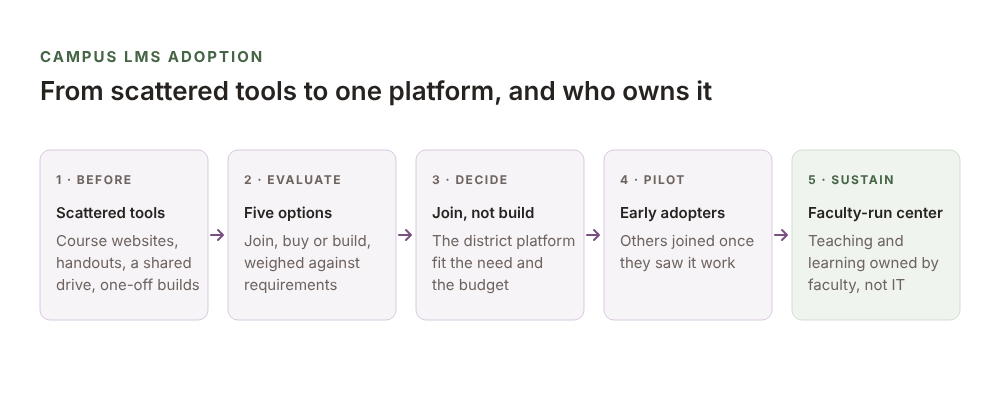
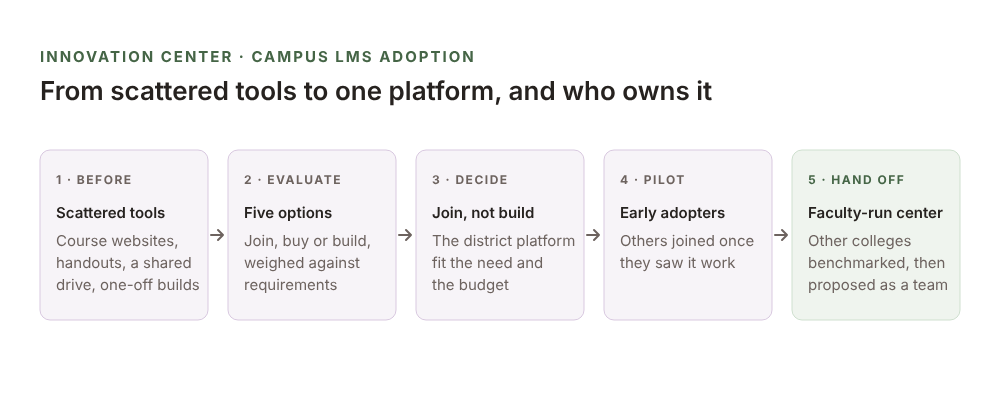
updating v3

diff --git a/v3/index.html b/v3/index.html
@@ -25,7 +25,7 @@
 </header>
 
 <main id="main">
-  <h1 class="lead-intro">I help colleges decide which AI ideas are worth doing, then get people using the ones that are.</h1>
+  <h1 class="lead-intro">I design learning experiences and AI strategy for the future of higher education.</h1>
   <p class="lead-sub">My work sits at the intersection of emerging technology, human-centered design, and helping organizations put new tools to real, practical use. I start with the people and the problem, never the technology: prototype, put it in front of real users, and don&rsquo;t scale until the evidence says it works.</p>
 
   <div class="askbar">
@@ -41,12 +41,12 @@
   </div>
 
   <h2 class="work-head" id="work">Work</h2>
-  <nav class="tabs" id="worktabs" aria-label="Filter work by section"><button type="button" class="tab" data-cat="all" aria-selected="true">All</button><button type="button" class="tab" data-cat="adopt" aria-selected="false">AI Adoption</button><button type="button" class="tab" data-cat="studies" aria-selected="false">Usability Studies</button><button type="button" class="tab" data-cat="student" aria-selected="false">Student Success Tools</button><button type="button" class="tab" data-cat="course" aria-selected="false">Course Design Tools</button><button type="button" class="tab" data-cat="teach" aria-selected="false">Teaching</button><button type="button" class="tab" data-cat="personal" aria-selected="false">Personal</button></nav>
+  <nav class="tabs" id="worktabs" aria-label="Filter work by section"><button type="button" class="tab" data-cat="studies" aria-selected="true">Usability Studies</button><button type="button" class="tab" data-cat="adopt" aria-selected="false">AI Adoption</button><button type="button" class="tab" data-cat="student" aria-selected="false">Student Success Tools</button><button type="button" class="tab" data-cat="course" aria-selected="false">Course Design Tools</button><button type="button" class="tab" data-cat="teach" aria-selected="false">Teaching</button><button type="button" class="tab" data-cat="personal" aria-selected="false">Personal</button></nav>
   <div class="feat" id="workgrid">
-    <a href="/pipeline/overview.html" data-cat="adopt"><span class="feat-thumb"><img src="/pipeline/pipeline_cover.jpg" alt=""></span><span class="feat-body"><span class="feat-t">AI Request Intake</span><span class="feat-s">AI Opportunity Pipeline</span><span class="feat-d">Early-stage prototype, in review and revision with the domain. An inventory of the AI tools ten colleges already have, with written requirements for the front door that comes next.</span></span></a>
-    <a href="/v3/adoption/" data-cat="adopt"><span class="feat-thumb"><img src="/v3/assets/adoption-path.svg" alt=""></span><span class="feat-body"><span class="feat-t">Campus Technology Adoption</span><span class="feat-s">Adoption and Enablement</span><span class="feat-d">Moving a campus from scattered tools onto one learning management system, and the faculty-run model that made adoption stick.</span></span></a>
     <a href="/v3/studies/journey/" data-cat="studies"><span class="feat-thumb"><img src="/airc-sss/cover.svg" alt=""></span><span class="feat-body"><span class="feat-t">Student Journey Barriers Study</span><span class="feat-s">Ten-college usability study</span><span class="feat-d">Synthetic-student agents walk the real student journey across ten Maricopa colleges to find where students hit barriers, ranked into prioritized AI pilots.</span></span></a>
     <a href="/v3/studies/gemini/" data-cat="studies"><span class="feat-thumb"><img src="/gemini-study/gemini-cover.png" alt=""></span><span class="feat-body"><span class="feat-t">Gemini Access Study</span><span class="feat-s">Examples of what Gemini blocks for students under 18</span><span class="feat-d">Twenty-seven course assignments run in an under-18 account and an 18-and-older account, to show a district exactly what younger students cannot do.</span></span></a>
+    <a href="/v3/adoption/" data-cat="adopt"><span class="feat-thumb fit"><img src="/v3/assets/adoption-path.svg" alt=""></span><span class="feat-body"><span class="feat-t">Campus Technology Adoption</span><span class="feat-s">Adoption and Enablement</span><span class="feat-d">How a campus Innovation Center moved faculty from scattered tools onto one learning management system, then co-wrote the approved proposal for the faculty-run center that made adoption stick.</span></span></a>
+    <a href="/pipeline/overview.html" data-cat="adopt"><span class="feat-thumb"><img src="/pipeline/pipeline_cover.jpg" alt=""></span><span class="feat-body"><span class="feat-t">AI Request Intake</span><span class="feat-s">AI Opportunity Pipeline</span><span class="feat-d">Early-stage prototype, in review and revision with the domain. An inventory of the AI tools ten colleges already have, with written requirements for the front door that comes next.</span></span></a>
     <a href="/v3/render/" data-cat="student"><span class="feat-thumb"><img src="/render/render_cover.jpg" alt=""></span><span class="feat-body"><span class="feat-t">Career Launch Tool</span><span class="feat-s">Render</span><span class="feat-d">Training wheels for building agents: students build a career-launch environment by hand and graduate owning the agents. Includes the scheduled agents built on the same pattern.</span></span></a>
     <a href="/copamigo/overview.html" data-cat="student"><span class="feat-thumb"><img src="/copamigo/copamigo_cover.jpg?v=2" alt=""></span><span class="feat-body"><span class="feat-t">Student Support Routing</span><span class="feat-s">CopaMigo</span><span class="feat-d">A multilingual AI triage tool that answers in the student&rsquo;s own language and routes their problem to the right human service with a warm handoff.</span></span></a>
     <a href="/course-dialer/overview.html" data-cat="course"><span class="feat-thumb"><img src="/course-dialer/cover.jpg" alt=""></span><span class="feat-body"><span class="feat-t">Course Review Tool</span><span class="feat-s">Dial Your Course</span><span class="feat-d">Drop in a Canvas course and nineteen checks run against it, from seat hours to accessibility to AI resistance, then the fixes come back.</span></span></a>

diff --git a/v3/assets/askbar.js b/v3/assets/askbar.js
@@ -64,7 +64,7 @@
       alignment: "Constructive alignment, from Biggs, means the outcomes, the assessments, and the learning activities all point at the same target. Nothing gets assessed that was not taught, and nothing gets taught that is not assessed. It is exactly what my Dial Your Course tool checks, whether every outcome is actually evidenced by something graded. <a href='/course-dialer/overview.html'>See it &rarr;</a>",
       strengths: "What sets my work apart is the combination the best online learning experience design takes. I am trained in both design and the science of how people learn, so I design from measurable outcomes backward and align every assessment to them rather than starting from a template. I build courses end to end to a formal quality standard, Quality Matters and OSCQR, and I have done it for working adults in higher education for more than 20 years, including alongside faculty subject-matter experts in fields outside my own. I bring a designer&rsquo;s eye and Adobe fluency, real AI-assisted course building, and an assessment habit: I close the loop with data instead of stopping at the design. And I keep the human at the center of all of it.",
       programreview: "As Program Director I owned our program review, the formal every-three-years assessment of the whole program: enrollment, student outcomes, and how our courses performed against their objectives, written up as the case for budget, faculty lines, and resources. That is assessment at the program level, not just the course level, and it is where I learned to treat a program&rsquo;s health as an enrollment and equity question, not only a content one. Decide from evidence and justify the spend with it, that habit carries into all my program work.",
-      adkar: "Change management decides whether anything gets used. As Director of Instructional Technology I moved a campus from scattered course websites, handouts and one-off tools onto its first campus-wide learning management system: an evaluation of five options, a pilot with early adopters, and support that let the rest follow once they saw it work. The lesson I took from it is that IT cannot drive teaching adoption alone, so I co-authored the proposal for a faculty-run center for teaching and learning. I have not run a formal ADKAR program yet, and Prosci training is next. <a href='/v3/adoption/'>Adoption and enablement &rarr;</a>",
+      adkar: "Change management decides whether anything gets used. As Director of Instructional Technology in the campus Innovation Center, my team moved a campus from scattered course websites, handouts and one-off tools onto its first campus-wide learning management system: an evaluation of five options that I ran with the Director of Training, a pilot with early adopters, and support that let the rest follow once they saw it work. The lesson I took from it is that IT cannot drive teaching adoption alone, so the Director of Training and I visited every other center for teaching and learning in the district and wrote the proposal for a faculty-run one on our campus, which two vice presidents approved. I have not run a formal ADKAR program yet, and Prosci training is next. <a href='/v3/adoption/'>Adoption and enablement &rarr;</a>",
       scrum: "I am completing the Professional Scrum Product Owner I course through Scrum.org. The product owner role is familiar ground: as a product manager at an EdTech startup I owned the roadmap, wrote requirements engineers could build from, and set priorities with engineering, sales and marketing.",
       usability: "Usability research runs through my whole career, with and without AI. As a product manager at an EdTech startup (ProQuest, XanEdu division) I ran usability studies and turned user research into product roadmaps, and I teach UX design. Most recently I designed two district studies: one sends synthetic-student agents down the real student journey across ten colleges, and one tests side by side what Gemini blocks for students under 18. <a href='/v3/studies/journey/'>Student journey study &rarr;</a> <a href='/v3/studies/gemini/'>Gemini study &rarr;</a>",
       stem: "Yes. At the University of Michigan College of Engineering, a Big Ten research university, I was Online Learning Coordinator and led quality assurance for every online course in one of the world&rsquo;s largest Six Sigma online programs. One program ran in three formats at once: in person, live online, and online on your own schedule, the model now called HyFlex. I was also the instructional designer for the college&rsquo;s online professional programs, working daily with engineering faculty to build courses for working engineers. More recently I built a graduate data science course and a photonics course with AI agents, each reviewed by the faculty expert who would teach it. <a href='/synthetic-smes/'>See that method &rarr;</a>",

diff --git a/v3/adoption/index.html b/v3/adoption/index.html
@@ -28,7 +28,7 @@
   <h1>Adoption and Enablement</h1>
   <p class="eyebrow">AI Adoption &middot; Case study</p>
   <p class="lead-sub">Getting people to actually use the thing, which is the part most technology work underestimates.</p>
-  <div class="hero-media"><img src="/v3/assets/adoption-path.svg" alt="Campus LMS adoption in five steps: scattered tools, five options evaluated, the district platform joined, a pilot with early adopters, and a faculty-run center for teaching and learning."></div>
+  <div class="hero-media"><img src="/v3/assets/adoption-path.svg" alt="The Innovation Center&rsquo;s campus LMS adoption in three steps. Discover: scattered tools, including course websites, handouts, Word documents, a shared drive, a discussion board and an open-source system. Evaluate: five options, with the district platform chosen. Adopt: one platform, with a pilot first and nearly all faculty following."></div>
   <div class="prose">
     <p>A tool nobody adopts is a tool nobody built. <strong>Twenty years of this work sits behind every other section here.</strong> A campus AI community of practice was convened for the faculty, staff and administrators already using AI, so good practice spreads by example rather than by a policy announced at people. Before that: a fully online faculty development course on designing and teaching online, authored and taught; an eight-year professional development series on course design, assessment and retention; and lead reviewer work under two course quality standards, which is coaching disguised as review.</p>
   </div>
@@ -39,7 +39,7 @@
   <div class="prose">
     <h2>Campus LMS Adoption</h2>
     <h3>Before</h3>
-    <p>Course materials lived everywhere: individual course websites, handouts and Word documents, an open-source learning management system, a discussion board application, and a shared drive. A team of developers, with students working alongside them through the Teaching and Learning Co-op, an experiential learning program, built one-off pieces for individual instructors.</p>
+    <p>Course materials lived everywhere: individual course websites, handouts and Word documents, an open-source learning management system, a discussion board application, and a shared drive. The campus Innovation Center built and ran the tools: a team of developers, with students working alongside them through the Teaching and Learning Co-op, an experiential learning program, building one-off pieces for individual instructors.</p>
     <h3>Options considered</h3>
     <ul>
       <li>Join the district&rsquo;s existing Blackboard instance</li>
@@ -49,11 +49,11 @@
       <li>Build a campus system on open source</li>
     </ul>
     <h3>Decision</h3>
-    <p>A campus evaluation and request for proposals, led by the Director of Instructional Technology and sponsored by the dean of administrative services and the vice president of academic affairs. The district instance met the requirements within the budget and staff available, so the campus joined rather than built.</p>
+    <p>A campus evaluation and request for proposals, run jointly by the Director of Instructional Technology and the Director of Training, and sponsored by the vice president of administrative services and the vice president of academic affairs. The district instance met the requirements within the budget and staff available, so the campus joined rather than built.</p>
     <h3>Rollout</h3>
     <p>A pilot with early adopters came first. Other faculty joined once they saw it working in a colleague&rsquo;s course, and nearly every faculty member was eventually on it. Support ran through a single point of contact helpdesk, workshops, and shared course design standards.</p>
     <h3>What it taught</h3>
-    <p>Instructional technology and training both sat inside IT, which did not have the faculty ownership that teaching and learning needs. The result was a co-authored proposal for a faculty-run center for teaching and learning. Online course governance at the college is faculty-led today.</p>
+    <p>Instructional technology and training both sat inside IT, which did not have the faculty ownership that teaching and learning needs. So the same two directors visited every other center for teaching and learning in the district and wrote the proposal to start one on this campus, run by faculty. The vice president of administrative services and the vice president of academic affairs approved it, and online course governance at the college is faculty-led today.</p>
   </div>
   <div class="prose">
     <h2>Status</h2>

diff --git a/minesai/index.html b/minesai/index.html
@@ -1125,10 +1125,10 @@
   <ul>
     <li><strong>Before:</strong> faculty scattered across course websites, handouts and Word docs, an open-source LMS, a discussion board app and a shared drive. Her developers and student workers built one-off pieces.</li>
     <li><strong>Options:</strong> join the district Blackboard instance, join RioLearn (Rio Salado, built on SharePoint), Desire2Learn, Moodle, or build on open source. The district instance fit requirements and budget.</li>
-    <li><strong>Sponsors:</strong> the Administrative Services Dean (her boss) and the Vice President of Academic Affairs.</li>
+    <li><strong>Sponsors:</strong> the Vice President of Administrative Services and the Vice President of Academic Affairs (corrected 4 Oct: the two VPs, not a dean).</li>
     <li><strong>Rollout:</strong> pilot with early adopters; others joined when they saw how easy it was. Not a mandate.</li>
     <li><strong>Later:</strong> co-led the district LMS committee. District-hosted servers failed. A second RFP at the end of her tenure, where hosted uptime was a deciding factor. She <strong>contributed</strong> to that RFP. Never “ran” it, never “led the migration.”</li>
-    <li><strong>The lesson, and the bridge to Mines:</strong> her team and training were both in IT and lacked faculty buy-in, so she co-authored the proposal for a faculty-run teaching and learning center. AI Acceleration sits in IT; AI@Mines and Trefny are the faculty side. Ask how the two connect.</li>
+    <li><strong>The lesson, and the bridge to Mines:</strong> her team and training were both in IT and lacked faculty buy-in, so she and the Director of Training visited every other CTLE in the district and wrote the proposal to start one on their campus. The VP of Administrative Services and the VPAA approved it. She and the Director of Training also ran the LMS evaluation and RFP together. <strong>Say “we.”</strong> It was a team effort and the Innovation Center built and ran the tools. AI Acceleration sits in IT; AI@Mines and Trefny are the faculty side. Ask how the two connect.</li>
     <li class="tilt"><strong>Match your resume:</strong> the application says “first learning management system from nothing: no platform, no standards, and no faculty using one.” Say “the first campus-wide LMS. A few faculty had set up their own tools, but there was no shared platform and no standards.” The site now says “first campus-wide.”</li>
     <li><strong>Result:</strong> nearly all faculty were eventually on Blackboard. Say “nearly all,” not “all,” and no number.</li>
     <li><strong>Students:</strong> the student developers were in an experiential learning program much like the student group at Trefny. She recalls it as the Teaching and Learning Co-op (her best memory, 4 Oct; if pressed, say “I believe we called it the Teaching and Learning Co-op”). The through-line: students doing real work at the Innovation Center, then the Design Studio she started as faculty.</li>

diff --git a/v3/adoption/overview.html b/v3/adoption/overview.html
@@ -29,7 +29,7 @@
   <p class="eyebrow">AI Adoption &middot; Case study</p>
   <nav class="tabs" aria-label="Adoption and Enablement sections"><a class="tab" href="/v3/adoption/overview.html" aria-current="page">Overview</a><a class="tab" href="/v3/adoption/prd.html">PRD</a></nav>
   <p class="lead-sub">Getting people to actually use the thing, which is the part most technology work underestimates.</p>
-  <div class="hero-media"><img src="/v3/assets/adoption-path.svg" alt="Campus LMS adoption in five steps: scattered tools, five options evaluated, the district platform joined, a pilot with early adopters, and a faculty-run center for teaching and learning."></div>
+  <div class="hero-media"><img src="/v3/assets/adoption-path.svg" alt="The Innovation Center&rsquo;s campus LMS adoption in three steps. Discover: scattered tools, including course websites, handouts, Word documents, a shared drive, a discussion board and an open-source system. Evaluate: five options, with the district platform chosen. Adopt: one platform, with a pilot first and nearly all faculty following."></div>
   <div class="prose">
     <h2>Goal</h2>
     <p>A tool nobody adopts is a tool nobody built. The goal is that people actually use what gets introduced, and keep using it after the person who introduced it steps back.</p>

diff --git a/v3/assets/workfilter.js b/v3/assets/workfilter.js
@@ -12,13 +12,18 @@
     var cat=b.getAttribute('data-cat');
     Array.prototype.forEach.call(bar.querySelectorAll('button'),function(x){x.setAttribute('aria-selected',x===b?'true':'false');});
     while(grid.firstChild) grid.removeChild(grid.firstChild);
-    cards.forEach(function(c){ if(cat==='all'||c.getAttribute('data-cat')===cat) grid.appendChild(c); });
+    cards.forEach(function(c){ if(c.getAttribute('data-cat')===cat) grid.appendChild(c); });
   });
+  function show(cat){
+    var b=bar.querySelector('button[data-cat="'+cat+'"]'); if(b) b.click();
+  }
   function fromHash(){
     var h=(location.hash||'').replace('#','');
     var b=h&&bar.querySelector('button[data-cat="'+h+'"]');
     if(b){ b.click(); var head=document.getElementById('work'); if(head) head.scrollIntoView(); }
   }
   window.addEventListener('hashchange',fromHash);
+  /* No All view: the first tab shows when the page opens. */
+  var first=bar.querySelector('button'); if(first) show(first.getAttribute('data-cat'));
   fromHash();
 })();

diff --git a/tools/build-v3.py b/tools/build-v3.py
@@ -182,8 +182,8 @@ SECTIONS = [
  },
  {
   'slug': 'adoption', 'name': 'Adoption and Enablement', 'thumb': '/v3/assets/adoption-path.svg',
-  'hero_alt': 'Campus LMS adoption in five steps: scattered tools, five options evaluated, the district platform joined, a pilot with early adopters, and a faculty-run center for teaching and learning.',
-  'case': '    <h2>Campus LMS Adoption</h2>\n    <h3>Before</h3>\n    <p>Course materials lived everywhere: individual course websites, handouts and Word documents, an open-source learning management system, a discussion board application, and a shared drive. A team of developers, with students working alongside them through the Teaching and Learning Co-op, an experiential learning program, built one-off pieces for individual instructors.</p>\n    <h3>Options considered</h3>\n    <ul>\n      <li>Join the district&rsquo;s existing Blackboard instance</li>\n      <li>Join another college&rsquo;s system, built on SharePoint</li>\n      <li>Desire2Learn</li>\n      <li>Moodle</li>\n      <li>Build a campus system on open source</li>\n    </ul>\n    <h3>Decision</h3>\n    <p>A campus evaluation and request for proposals, led by the Director of Instructional Technology and sponsored by the dean of administrative services and the vice president of academic affairs. The district instance met the requirements within the budget and staff available, so the campus joined rather than built.</p>\n    <h3>Rollout</h3>\n    <p>A pilot with early adopters came first. Other faculty joined once they saw it working in a colleague&rsquo;s course, and nearly every faculty member was eventually on it. Support ran through a single point of contact helpdesk, workshops, and shared course design standards.</p>\n    <h3>What it taught</h3>\n    <p>Instructional technology and training both sat inside IT, which did not have the faculty ownership that teaching and learning needs. The result was a co-authored proposal for a faculty-run center for teaching and learning. Online course governance at the college is faculty-led today.</p>',
+  'hero_alt': 'The Innovation Center&rsquo;s campus LMS adoption in three steps. Discover: scattered tools, including course websites, handouts, Word documents, a shared drive, a discussion board and an open-source system. Evaluate: five options, with the district platform chosen. Adopt: one platform, with a pilot first and nearly all faculty following.',
+  'case': '    <h2>Campus LMS Adoption</h2>\n    <h3>Before</h3>\n    <p>Course materials lived everywhere: individual course websites, handouts and Word documents, an open-source learning management system, a discussion board application, and a shared drive. The campus Innovation Center built and ran the tools: a team of developers, with students working alongside them through the Teaching and Learning Co-op, an experiential learning program, building one-off pieces for individual instructors.</p>\n    <h3>Options considered</h3>\n    <ul>\n      <li>Join the district&rsquo;s existing Blackboard instance</li>\n      <li>Join another college&rsquo;s system, built on SharePoint</li>\n      <li>Desire2Learn</li>\n      <li>Moodle</li>\n      <li>Build a campus system on open source</li>\n    </ul>\n    <h3>Decision</h3>\n    <p>A campus evaluation and request for proposals, run jointly by the Director of Instructional Technology and the Director of Training, and sponsored by the vice president of administrative services and the vice president of academic affairs. The district instance met the requirements within the budget and staff available, so the campus joined rather than built.</p>\n    <h3>Rollout</h3>\n    <p>A pilot with early adopters came first. Other faculty joined once they saw it working in a colleague&rsquo;s course, and nearly every faculty member was eventually on it. Support ran through a single point of contact helpdesk, workshops, and shared course design standards.</p>\n    <h3>What it taught</h3>\n    <p>Instructional technology and training both sat inside IT, which did not have the faculty ownership that teaching and learning needs. So the same two directors visited every other center for teaching and learning in the district and wrote the proposal to start one on this campus, run by faculty. The vice president of administrative services and the vice president of academic affairs approved it, and online course governance at the college is faculty-led today.</p>',
   'eyebrow': 'AI Adoption &middot; Case study',
   'lead': 'Getting people to actually use the thing, which is the part most technology work underestimates.',
   'summary': 'A tool nobody adopts is a tool nobody built. <strong>Twenty years of this work sits behind every other section here.</strong> A campus AI community of practice was convened for the faculty, staff and administrators already using AI, so good practice spreads by example rather than by a policy announced at people. Before that: a fully online faculty development course on designing and teaching online, authored and taught; an eight-year professional development series on course design, assessment and retention; and lead reviewer work under two course quality standards, which is coaching disguised as review.',
@@ -351,8 +351,8 @@ def prd_page(sec, proj=None):
 # show is left out of HOME_TABS until it has something.
 
 HOME_TABS = [
- ('adopt',   'AI Adoption'),
  ('studies', 'Usability Studies'),
+ ('adopt',   'AI Adoption'),
  ('student', 'Student Success Tools'),
  ('course',  'Course Design Tools'),
  ('teach',   'Teaching'),
@@ -361,14 +361,14 @@ HOME_TABS = [
 
 HOME_CARDS = [
  # cat, title, tool name, href, thumb, one sentence
- ('adopt','AI Request Intake','AI Opportunity Pipeline','/pipeline/overview.html','/pipeline/pipeline_cover.jpg',
-  'Early-stage prototype, in review and revision with the domain. An inventory of the AI tools ten colleges already have, with written requirements for the front door that comes next.'),
- ('adopt','Campus Technology Adoption','Adoption and Enablement','/v3/adoption/','/v3/assets/adoption-path.svg',
-  'Moving a campus from scattered tools onto one learning management system, and the faculty-run model that made adoption stick.'),
  ('studies','Student Journey Barriers Study','Ten-college usability study','/v3/studies/journey/','/airc-sss/cover.svg',
   'Synthetic-student agents walk the real student journey across ten Maricopa colleges to find where students hit barriers, ranked into prioritized AI pilots.'),
  ('studies','Gemini Access Study','Examples of what Gemini blocks for students under 18','/v3/studies/gemini/','/gemini-study/gemini-cover.png',
   'Twenty-seven course assignments run in an under-18 account and an 18-and-older account, to show a district exactly what younger students cannot do.'),
+ ('adopt','Campus Technology Adoption','Adoption and Enablement','/v3/adoption/','/v3/assets/adoption-path.svg',
+  'How a campus Innovation Center moved faculty from scattered tools onto one learning management system, then co-wrote the approved proposal for the faculty-run center that made adoption stick.'),
+ ('adopt','AI Request Intake','AI Opportunity Pipeline','/pipeline/overview.html','/pipeline/pipeline_cover.jpg',
+  'Early-stage prototype, in review and revision with the domain. An inventory of the AI tools ten colleges already have, with written requirements for the front door that comes next.'),
  ('student','Career Launch Tool','Render','/v3/render/','/render/render_cover.jpg',
   'Training wheels for building agents: students build a career-launch environment by hand and graduate owning the agents. Includes the scheduled agents built on the same pattern.'),
  ('student','Student Support Routing','CopaMigo','/copamigo/overview.html','/copamigo/copamigo_cover.jpg?v=2',
@@ -410,7 +410,7 @@ HOME_CARDS = [
 ]
 
 
-FIT_THUMBS = ('/synthetic-smes/how-it-works.svg', '/avc100/skills-chart.png', '/program-design/majors-chart.png')
+FIT_THUMBS = ('/v3/assets/adoption-path.svg', '/synthetic-smes/how-it-works.svg', '/avc100/skills-chart.png', '/program-design/majors-chart.png')
 
 
 def home_card(cat, title, tool, href, thumb, desc):
@@ -424,7 +424,7 @@ def home_card(cat, title, tool, href, thumb, desc):
 
 
 def home_page():
-    b = ['  <h1 class="lead-intro">I help colleges decide which AI ideas are worth doing, then get people using the ones that are.</h1>',
+    b = ['  <h1 class="lead-intro">I design learning experiences and AI strategy for the future of higher education.</h1>',
          '  <p class="lead-sub">My work sits at the intersection of emerging technology, human-centered design, and helping organizations put new tools to real, practical use. I start with the people and the problem, never the technology: prototype, put it in front of real users, and don&rsquo;t scale until the evidence says it works.</p>',
          '',
          '  <div class="askbar">',
@@ -441,8 +441,7 @@ def home_page():
          '',
          '  <h2 class="work-head" id="work">Work</h2>',
          '  <nav class="tabs" id="worktabs" aria-label="Filter work by section">'
-         + '<button type="button" class="tab" data-cat="all" aria-selected="true">All</button>'
-         + ''.join(f'<button type="button" class="tab" data-cat="{k}" aria-selected="false">{n}</button>' for k, n in HOME_TABS)
+         + ''.join(f'<button type="button" class="tab" data-cat="{k}" aria-selected="{"true" if i == 0 else "false"}">{n}</button>' for i, (k, n) in enumerate(HOME_TABS))
          + '</nav>',
          '  <div class="feat" id="workgrid">']
     for cat, title, tool, href, thumb, desc in HOME_CARDS:
@@ -516,7 +515,7 @@ def emit(path, html, written, mismatched):
     written.append(path)
 
 
-ROOT_META = '''<meta name="description" content="Michelle Blomberg helps colleges decide which AI ideas are worth doing, then get people using them. AI intake, usability research, requirements, pilots and adoption in higher education.">
+ROOT_META = '''<meta name="description" content="Michelle Blomberg designs learning experiences and AI strategy for the future of higher education.">
 <meta property="og:type" content="website">
 <meta property="og:title" content="Michelle Blomberg, AI adoption and learning experience design in higher education">
 <meta property="og:description" content="AI intake, usability research, requirements, pilots and adoption in higher education.">
